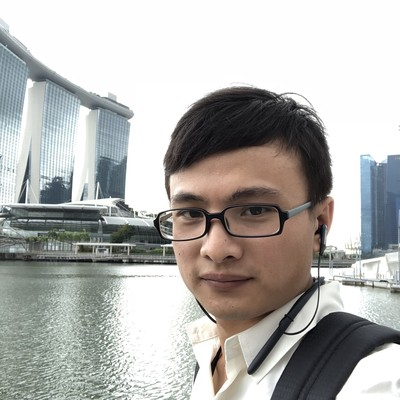
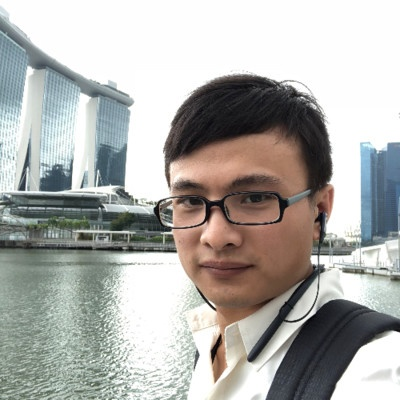
Update profile photo, fix masthead centering, link Diep Dao→About & Bits & Beyond→Home
- Replace profile photo with LinkedIn headshot (already square, no crop needed)
- Switch masthead layout to CSS grid (1fr auto 1fr) for true visual centering
- Diep Dao (left) now links to /about/, Bits & Beyond (center) links to home

diff --git a/assets/css/main.scss b/assets/css/main.scss
@@ -6,11 +6,11 @@
 @import "minimal-mistakes";
 
 /* ── Custom Masthead Layout ──────────────────────────── */
+/* 3-column grid: equal 1fr sides keep center perfectly centred */
 .masthead__wrap {
-  display: flex;
+  display: grid;
+  grid-template-columns: 1fr auto 1fr;
   align-items: center;
-  justify-content: space-between;
-  position: relative;
   width: 100%;
   padding: 0.4rem 0;
 }
@@ -19,29 +19,22 @@
 .masthead__left {
   display: flex;
   align-items: center;
-  flex-shrink: 0;
-  z-index: 2;
+  justify-self: start;
 }
 
-/* MIDDLE — truly centred regardless of side widths */
+/* MIDDLE */
 .masthead__center {
-  position: absolute;
-  left: 50%;
-  transform: translateX(-50%);
-  z-index: 1;
-  pointer-events: none;
   white-space: nowrap;
-  .site-brand { pointer-events: auto; }
+  text-align: center;
 }
 
-/* RIGHT */
+/* RIGHT — fills its 1fr column so greedy-nav can measure width */
 .masthead__right {
   display: flex;
   align-items: center;
   gap: 0.5rem;
-  flex-shrink: 0;
-  z-index: 2;
-  .greedy-nav { background: transparent; }
+  justify-content: flex-end;
+  .greedy-nav { background: transparent; flex: 1; min-width: 0; }
 }
 
 .site-author-link {
@@ -58,9 +51,12 @@
   font-weight: 400;
   color: #7a8288;
   white-space: nowrap;
+  text-decoration: none;
+  &:hover { color: #494e52; }
 }
 
 @media (max-width: 480px) {
+  .masthead__wrap { grid-template-columns: auto 1fr; }
   .masthead__center { display: none; }
 }
 
@@ -256,7 +252,7 @@ $dk-code:         #0d0d0d;
       color: $dk-link !important;
       &:hover { color: $dk-link-hover !important; }
     }
-    .site-brand      { color: $dk-text; }
+    .site-brand      { color: $dk-text; text-decoration: none; &:hover { color: $dk-heading; } }
     .site-author-link { color: $dk-heading; &:hover { color: $dk-link-hover; } }
     .greedy-nav {
       background-color: $dk-masthead;

diff --git a/_includes/masthead.html b/_includes/masthead.html
@@ -4,14 +4,14 @@
   <div class="masthead__inner-wrap">
     <div class="masthead__wrap">
 
-      <!-- LEFT: Diep Dao -->
+      <!-- LEFT: Diep Dao → About Me -->
       <div class="masthead__left">
-        <a class="site-author-link" href="{{ '/' | relative_url }}">Diep Dao</a>
+        <a class="site-author-link" href="{{ '/about/' | relative_url }}">Diep Dao</a>
       </div>
 
-      <!-- MIDDLE: Bits & Beyond (absolutely centred) -->
+      <!-- MIDDLE: Bits & Beyond → Home (absolutely centred) -->
       <div class="masthead__center">
-        <span class="site-brand">Bits &amp; Beyond</span>
+        <a class="site-brand" href="{{ '/' | relative_url }}">Bits &amp; Beyond</a>
       </div>
 
       <!-- RIGHT: Nav items (collapse on small screens) + theme switcher -->
